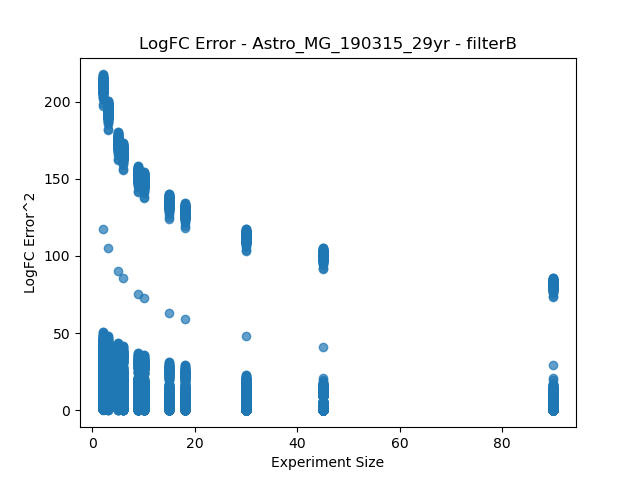
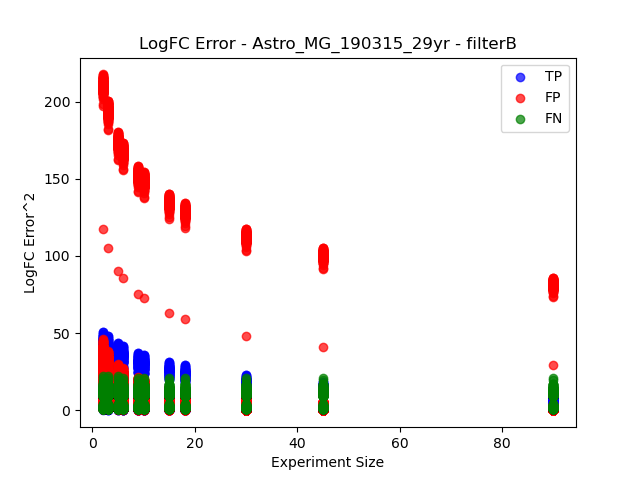
new plots

diff --git a/experiments/2023-07-25/new_plot_pseudobulk.py b/experiments/2023-07-25/new_plot_pseudobulk.py
@@ -7,8 +7,7 @@ batch_21_DCC = "/project/compbio-lab/scHi-C/Lee2019/simulations/Astro_MG_190315_
 batch_29_DCC = "/project/compbio-lab/scHi-C/Lee2019/simulations/Astro_MG_190315_29yr/DCC.txt"
 
 batches = ["Astro_MG_190315_21yr", "Astro_MG_190315_29yr"]
-experiment_sizes = ["90x90", "45x45", "30x30", "18x18", "15x15", "10x10", "9x9", "6x6", "5x5", "3x3", "2x2"]
-e_sized = [90, 45, 30, 18, 15, 10, 9, 6, 5, 3, 2]
+experiment_sizes = [90, 45, 30, 18, 15, 10, 9, 6, 5, 3, 2]
 
 filters = ["filterA", "filterB"]
 
@@ -22,10 +21,10 @@ def create_plots(batch, filter_type):
     else:
         batch_df = batch_29_DCC
 
-    r_df = pd.DataFrame(columns=["accuracy","Error", "Experiment Size"])
+    result_df = pd.DataFrame(columns=["Error", "Experiment Size"])
     accuracy_df = pd.DataFrame(columns=["TP", "TN", "FP", "FN", "Experiment Size", "Accuracy"])
 
-    for e in e_sized:
+    for e in experiment_sizes:
         file_name = f"diffHiC_{batch}_{e}x{e}_{filter_type}_results.csv"
         file_path = os.path.join(result_dir, file_name)
         # Read the CSV file into a pandas DataFrame
@@ -36,7 +35,7 @@ def create_plots(batch, filter_type):
         df = df.rename(columns={"start1": "bin1_id", "start2": "bin2_id"})
         df = df.merge(batch_df, on=["bin1_id", "bin2_id"], how="outer")
         df = df[['logFC', 'LogFC_ground_truth']]
-        
+        print(df)
         FN = df["logFC"].isna().sum()
         FP = df["LogFC_ground_truth"].isna().sum()
         TP = df.shape[0] - FN - FP
@@ -48,27 +47,28 @@ def create_plots(batch, filter_type):
 
         # Concatenate the new DataFrame with the original DataFrame
         accuracy_df = pd.concat([accuracy_df, new_row], ignore_index=True)
-        df[df["LogFC_ground_truth"].notna() & df["logFC"].notna()]["accuracy"] = "TP"
-        df[df["LogFC_ground_truth"].isna() & df["logFC"].notna()]["accuracy"]  = "FP"
-        df[df["LogFC_ground_truth"].notna() & df["logFC"].isna()]["accuracy"]  = "FN"
+
+        df.loc[df["LogFC_ground_truth"].notna() & df["logFC"].notna(), "accuracy"] = "TP"
+        df.loc[df["LogFC_ground_truth"].isna() & df["logFC"].notna(), "accuracy"] = "FP"
+        df.loc[df["LogFC_ground_truth"].notna() & df["logFC"].isna(), "accuracy"] = "FN"
 
         df = df.fillna(1)
         df["Error"] = (df["logFC"] - df["LogFC_ground_truth"])**2
         df["Experiment Size"] = e
         df = df[[ "accuracy","Error", "Experiment Size"]]
 
-        r_df = pd.concat([r_df, df], ignore_index=True)
+        result_df = pd.concat([result_df, df], ignore_index=True)
 
     # Plotting the data
     plt.figure()
-    plt.scatter(r_df[r_df["accuracy"]=="TP"]["Experiment Size"], r_df["Error"], alpha=0.7, c="blue")
-    plt.scatter(r_df[r_df["accuracy"]=="FP"]["Experiment Size"], r_df["Error"], alpha=0.7, c="red")
-    plt.scatter(r_df[r_df["accuracy"]=="FN"]["Experiment Size"], r_df["Error"], alpha=0.7, c="green")
-    plt.legend(["TP","FN","FP"])
+    plt.scatter(result_df[result_df["accuracy"]=="TP"]["Experiment Size"], result_df[result_df["accuracy"]=="TP"]["Error"], alpha=0.7, c="blue")
+    plt.scatter(result_df[result_df["accuracy"]=="FP"]["Experiment Size"], result_df[result_df["accuracy"]=="FP"]["Error"], alpha=0.7, c="red")
+    plt.scatter(result_df[result_df["accuracy"]=="FN"]["Experiment Size"], result_df[result_df["accuracy"]=="FN"]["Error"], alpha=0.7, c="green")
+    plt.legend(["TP", "FP", "FN"])
     plt.xlabel("Experiment Size")
     plt.ylabel("LogFC Error^2")
     plt.title(f"LogFC Error - {batch} - {filter_type}")
-    plt.savefig(f"LFC_ground_{batch}_{filter_type}_plot.png")
+    plt.savefig(f"LFC_{batch}_{filter_type}_plot.png")
     plt.close()
 
     plt.figure()
@@ -76,7 +76,7 @@ def create_plots(batch, filter_type):
     plt.xlabel("Experiment Size")
     plt.ylabel("Accuracy")
     plt.title(f"Accuracy - {batch} - {filter_type}")
-    plt.savefig(f"Accuracy_{batch}_{filter_type}_plot.png")
+    plt.savefig(f"Accuracy_ground_{batch}_{filter_type}_plot.png")
     plt.close()
 
 
@@ -84,3 +84,4 @@ create_plots("Astro_MG_190315_21yr", "filterA")
 create_plots("Astro_MG_190315_21yr", "filterB")
 create_plots("Astro_MG_190315_29yr", "filterA")
 create_plots("Astro_MG_190315_29yr", "filterB")
+
